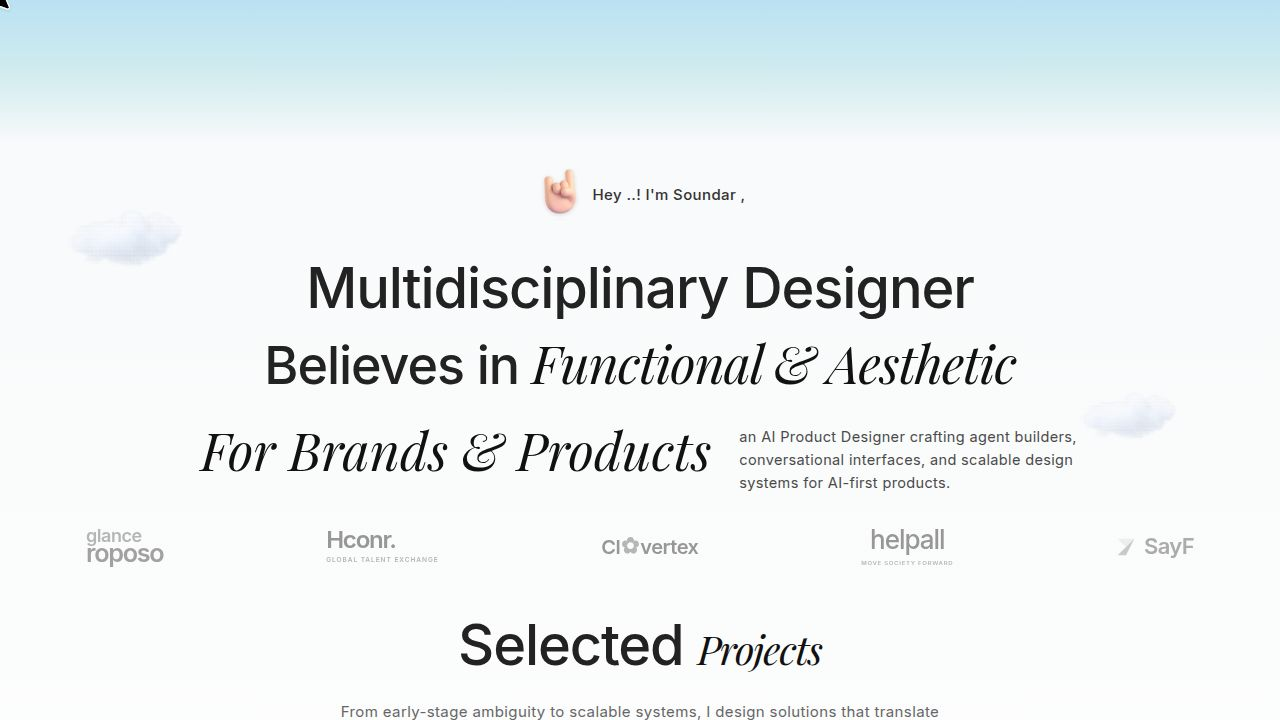
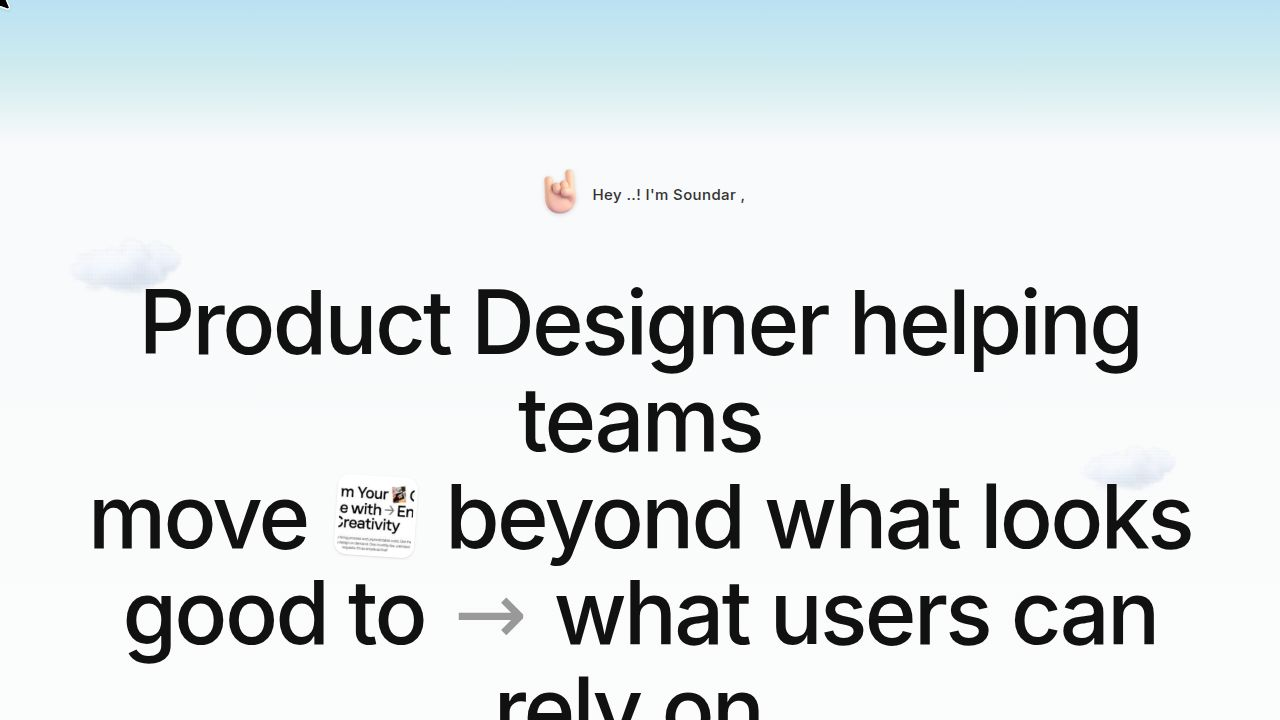
Update hero section content and styling to better reflect brand messaging
Modify client/src/components/Hero.tsx to update the hero section's text content and styling, incorporating an image for emphasis and adjusting font sizes and weights for improved visual hierarchy.

Replit-Commit-Author: Agent
Replit-Commit-Session-Id: a4b4c11b-4846-451d-a98c-c1b2aa0c4d63
Replit-Commit-Checkpoint-Type: full_checkpoint
Replit-Commit-Event-Id: 2cb5efe1-8644-4e76-bbb4-0cd74ae81e06
Replit-Commit-Screenshot-Url: https://storage.googleapis.com/screenshot-production-us-central1/bc158ca2-8641-40f5-a097-b464a69deb64/a4b4c11b-4846-451d-a98c-c1b2aa0c4d63/AkYjPKH
Replit-Helium-Checkpoint-Created: true

Changed region(s): [[0.0625, 0.3667, 0.9375, 0.7944], [0.0938, 0.7944, 0.9062, 1.0]]

diff --git a/client/src/components/Hero.tsx b/client/src/components/Hero.tsx
@@ -71,25 +71,17 @@ export function Hero() {
         </div>
 
         {/* Main Headline Section */}
-        <div className="flex flex-col items-center text-center w-full">
-          <h1 className="text-[2rem] sm:text-[2.75rem] md:text-[3.25rem] lg:text-[3.5rem] text-[#222] tracking-[-0.02em] font-medium leading-[1.1]">
-            Multidisciplinary Designer
+        <div className="flex flex-col items-center text-center w-full mt-4">
+          <h1 className="text-[2.5rem] sm:text-[3.5rem] md:text-[4.5rem] lg:text-[5.5rem] text-[#111] tracking-[-0.04em] font-semibold leading-[1.05] max-w-[1100px]">
+            Product Designer helping teams <br className="hidden lg:block" />
+            move <img src="/hero_inline.png" alt="design" className="inline-block align-middle w-[45px] h-[45px] md:w-[85px] md:h-[85px] object-cover rounded-[8px] md:rounded-[12px] mx-1 md:mx-3 shadow-md rotate-[6deg] -translate-y-1 md:-translate-y-3 border-[3px] md:border-[4px] border-white" /> beyond <br className="hidden lg:block" />
+            what looks good to <span className="inline-flex items-center text-[#888] font-light mx-1 md:mx-2">→</span> what <br className="hidden lg:block" />
+            users can rely on.
           </h1>
           
-          <h2 className="text-[1.8rem] sm:text-[2.5rem] md:text-[3rem] lg:text-[3.25rem] text-[#222] tracking-[-0.02em] font-medium leading-[1.2] mt-3">
-            Believes in <span className="font-serif italic font-normal text-[#111]">Functional & Aesthetic</span>
-          </h2>
-          
-          <div className="flex flex-col md:flex-row items-center md:items-start justify-center gap-6 md:gap-5 mt-6 w-full">
-            <h2 className="text-[1.8rem] sm:text-[2.5rem] md:text-[3rem] lg:text-[3.25rem] font-serif italic font-normal text-[#111] leading-[1.1] md:text-right pr-2">
-              For Brands & Products
-            </h2>
-            <p className="text-[#4a4a4a] max-w-[340px] text-[13px] md:text-[14.5px] leading-[1.6] text-center md:text-left pt-1 font-normal tracking-wide">
-              an AI Product Designer crafting agent builders,
-              conversational interfaces, and scalable design
-              systems for AI-first products.
-            </p>
-          </div>
+          <p className="text-[#666] max-w-[650px] text-[15px] md:text-[17px] leading-[1.6] text-center mt-6 md:mt-8 font-medium tracking-wide">
+            Translating 0→1 chaos into usable, scalable design systems across B2B, SaaS, and AI-first products.
+          </p>
         </div>
 
       </div>
